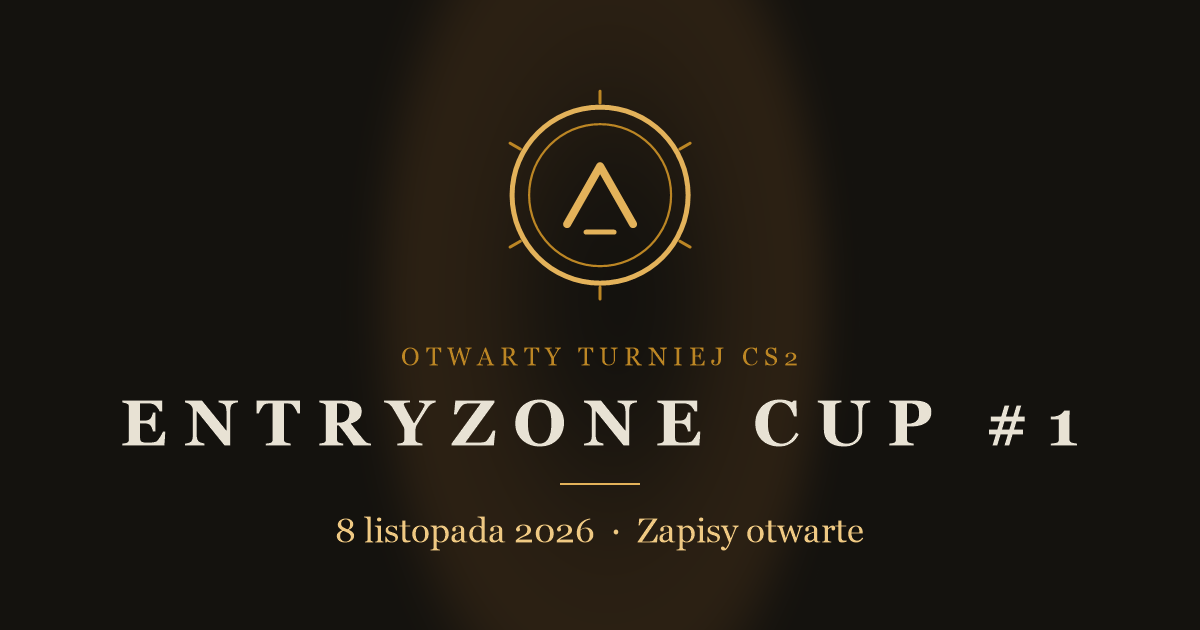
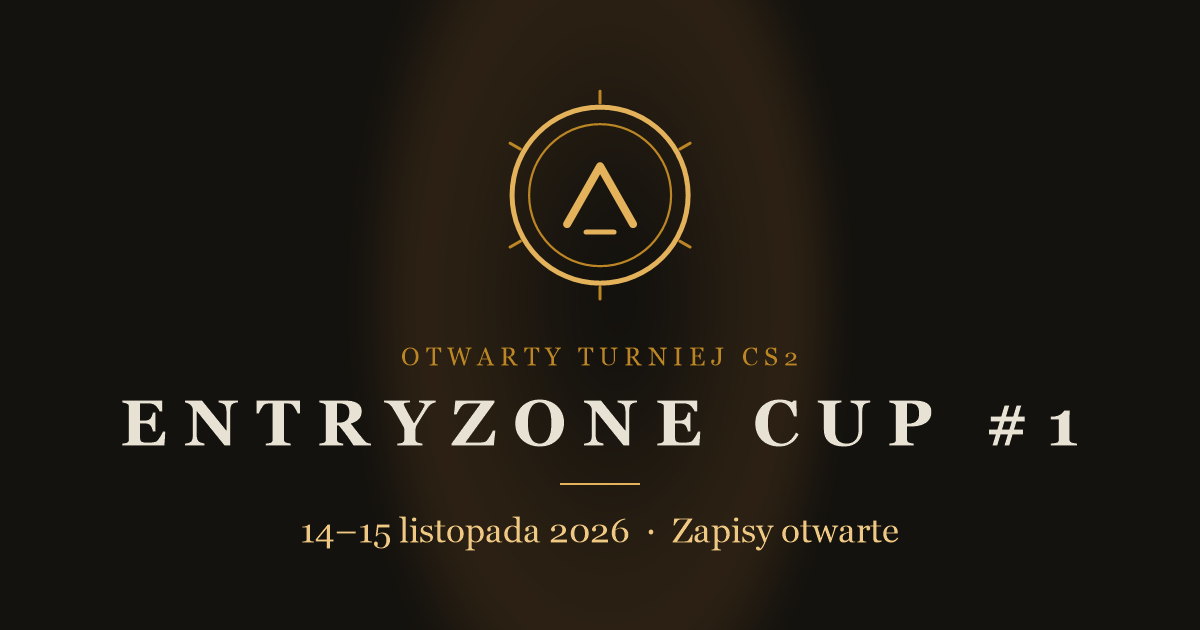
CUP na dwa dni: 14-15 listopada, zamkniecie zapisow 8 listopada
Turniej zmienia format na dwudniowy: sobota 14.11 (runda 1 +
cwiercfinaly, dwa serwery rownolegle, start 14:00), niedziela 15.11
(polfinaly od 18:00 + wielki final BO3 z komentarzem). Zamkniecie
zapisow przesuniete na 8 listopada 20:00 - odliczanie na stronie
glownej dalej liczy do tego terminu.

Podmienione wszedzie: registration.ts (zrodlo prawdy), naglowek i nowy
wiersz "Terminarz" w formacie CUP-u, meta OG/Twitter, og-image.

Regulamin: doprecyzowane zgloszenie wyniku (sedziemu, nie na Discordzie)
i nowy punkt o wymogu dostepnosci w oba dni turnieju - 15 -> 16 punktow,
licznik w naglowku liczy sie sam z dlugosci listy.

Changed region(s): [[0.2467, 0.8143, 0.74, 0.8746]]

diff --git a/index.html b/index.html
@@ -14,7 +14,7 @@
     <title>ENTRYZONE</title>
     <meta
       name="description"
-      content="16 drużyn, jedna drabinka, jeden zwycięzca. 8 listopada 2026. Zapisy otwarte."
+      content="16 drużyn, jedna drabinka, jeden zwycięzca. 14–15 listopada 2026. Zapisy otwarte."
     />
 
     <meta property="og:type" content="website" />
@@ -24,7 +24,7 @@
     <meta property="og:title" content="ENTRYZONE CUP #1 — otwarty turniej CS2" />
     <meta
       property="og:description"
-      content="16 drużyn, jedna drabinka, jeden zwycięzca. 8 listopada 2026. Zapisy otwarte."
+      content="16 drużyn, jedna drabinka, jeden zwycięzca. 14–15 listopada 2026. Zapisy otwarte."
     />
     <meta property="og:image" content="https://entryzone.vercel.app/og-image.png" />
     <meta property="og:image:width" content="1200" />
@@ -35,7 +35,7 @@
     <meta name="twitter:title" content="ENTRYZONE CUP #1 — otwarty turniej CS2" />
     <meta
       name="twitter:description"
-      content="16 drużyn, jedna drabinka, jeden zwycięzca. 8 listopada 2026. Zapisy otwarte."
+      content="16 drużyn, jedna drabinka, jeden zwycięzca. 14–15 listopada 2026. Zapisy otwarte."
     />
     <meta name="twitter:image" content="https://entryzone.vercel.app/og-image.png" />
     <script>

diff --git a/src/components/cup/Regulamin.tsx b/src/components/cup/Regulamin.tsx
@@ -15,9 +15,10 @@ const RULES = [
   `Wpisowe wynosi ${prizes.entryFee} zł od drużyny i musi zostać opłacone przed startem turnieju. Cała pula trafia do zwycięzców.`,
   'W przypadku nieobecności opłaconej drużyny mecz zostaje przyznany przeciwnikowi walkowerem, a wpisowe nie podlega zwrotowi i pozostaje w puli nagród.',
   'W razie sporu mecz zostaje zapauzowany do czasu decyzji sędziego.',
-  'Po zakończeniu mapy kapitan zwycięskiej drużyny zgłasza wynik na Discordzie wraz ze zrzutem ekranu tabeli wyników.',
+  'Po zakończeniu mapy kapitan zwycięskiej drużyny zgłasza wynik sędziemu wraz ze zrzutem ekranu tabeli wyników.',
   'Pula nagród jest gwarantowana przez organizatora niezależnie od liczby zgłoszonych drużyn.',
   'Organizator zastrzega sobie prawo do przełożenia turnieju w przypadku zgłoszenia mniej niż 8 drużyn.',
+  'Turniej rozgrywany jest w dwa dni — sobotę i niedzielę. Udział wymaga dostępności w obu terminach.',
 ]
 
 /** Rozwijana sekcja regulaminu — zwinięta domyślnie, cel linku „Zapoznaj się z regulaminem” na stronie głównej. */

diff --git a/src/data/registration.ts b/src/data/registration.ts
@@ -5,7 +5,7 @@ export type RegistrationStatus = 'open' | 'closed' | 'none'
  * Odliczanie w sekcji CTA i etykiety daty/godziny na stronie zapisów czytają
  * z tego samego obiektu, więc nie mogą się rozjechać.
  */
-const closeAt = new Date('2026-11-01T20:00:00')
+const closeAt = new Date('2026-11-08T20:00:00')
 
 /**
  * Jedno miejsce do przełączania stanu sekcji zapisów — zmień tylko `status`.
@@ -33,8 +33,12 @@ export const registration = {
     minute: '2-digit',
   }),
 
-  startDate: '8 listopada',
-  startTime: '18:00',
+  // Turniej trwa dwa dni — pełny harmonogram (soboty i niedzieli) jest w
+  // formacie CUP-u (CupOverview). Te dwa pola karmią krótkie wzmianki daty
+  // gdzie indziej (np. "Graj {startDate}") i startTime to godzina pierwszego
+  // meczu w sobotę.
+  startDate: '14–15 listopada',
+  startTime: '14:00',
 
   formUrl:
     'https://docs.google.com/forms/d/e/1FAIpQLSd1pCLSYh6cIRv3Yc3B8-ozbYzaEZkQ5l5RHkm_YVPrOM5Suw/viewform',

diff --git a/src/components/cup/CupOverview.tsx b/src/components/cup/CupOverview.tsx
@@ -8,6 +8,10 @@ const FORMAT = [
   { label: 'Mapy', text: 'aktywna pula Premier, veto systemem ban/ban/pick' },
   { label: 'Serwery', text: 'serwery organizatora / FACEIT' },
   { label: 'Zapisy', text: 'otwarte dla wszystkich, bez limitu rangi' },
+  {
+    label: 'Terminarz',
+    text: 'Sobota 14 listopada, start 14:00: runda 1 i ćwierćfinały na dwóch serwerach równolegle. Niedziela 15 listopada, od 18:00: półfinały i wielki finał BO3 z komentarzem na żywo.',
+  },
   { label: 'Wpisowe', text: `${prizes.entryFee} zł od drużyny — cała pula trafia do zwycięzców` },
   {
     label: 'Nagrody',
